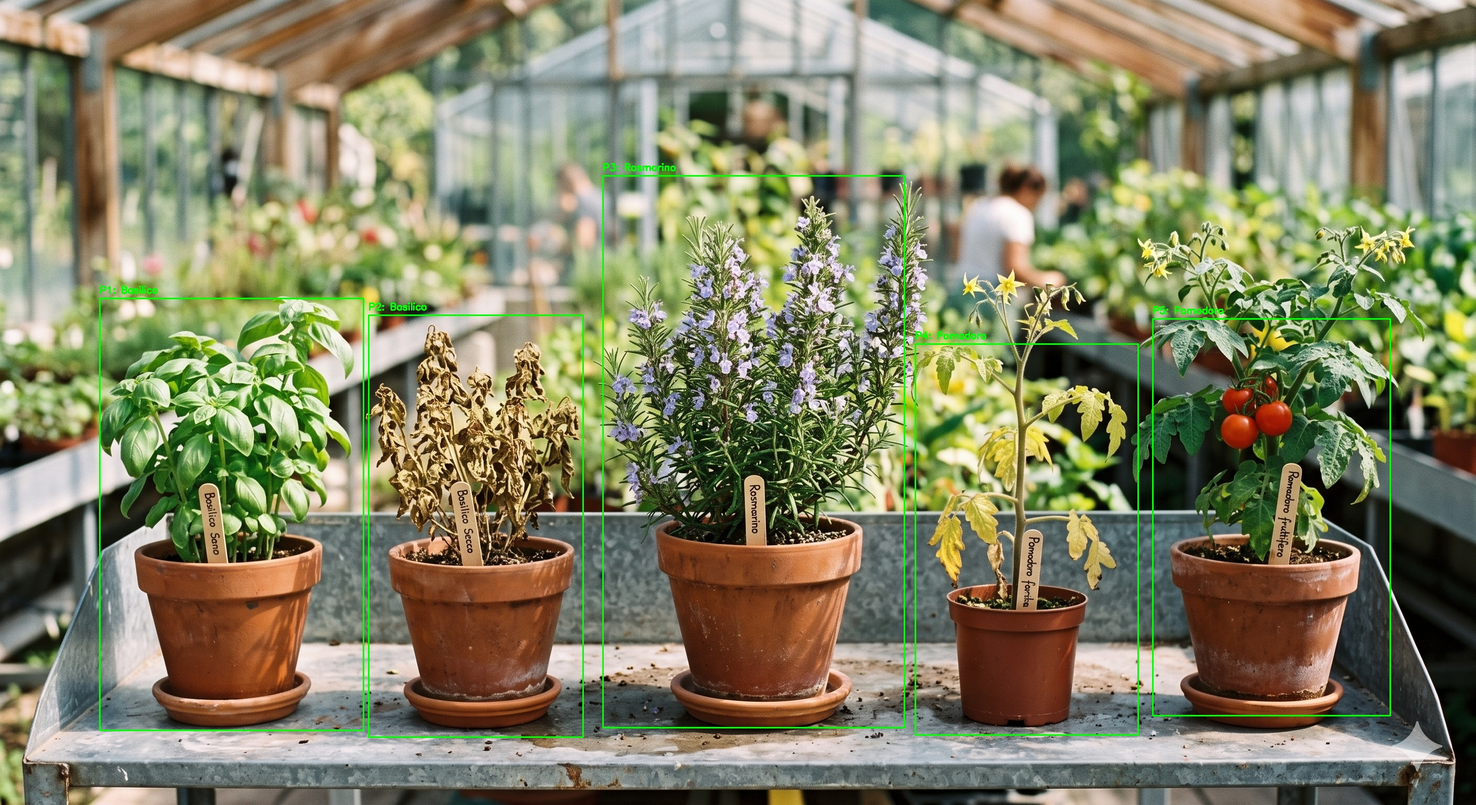
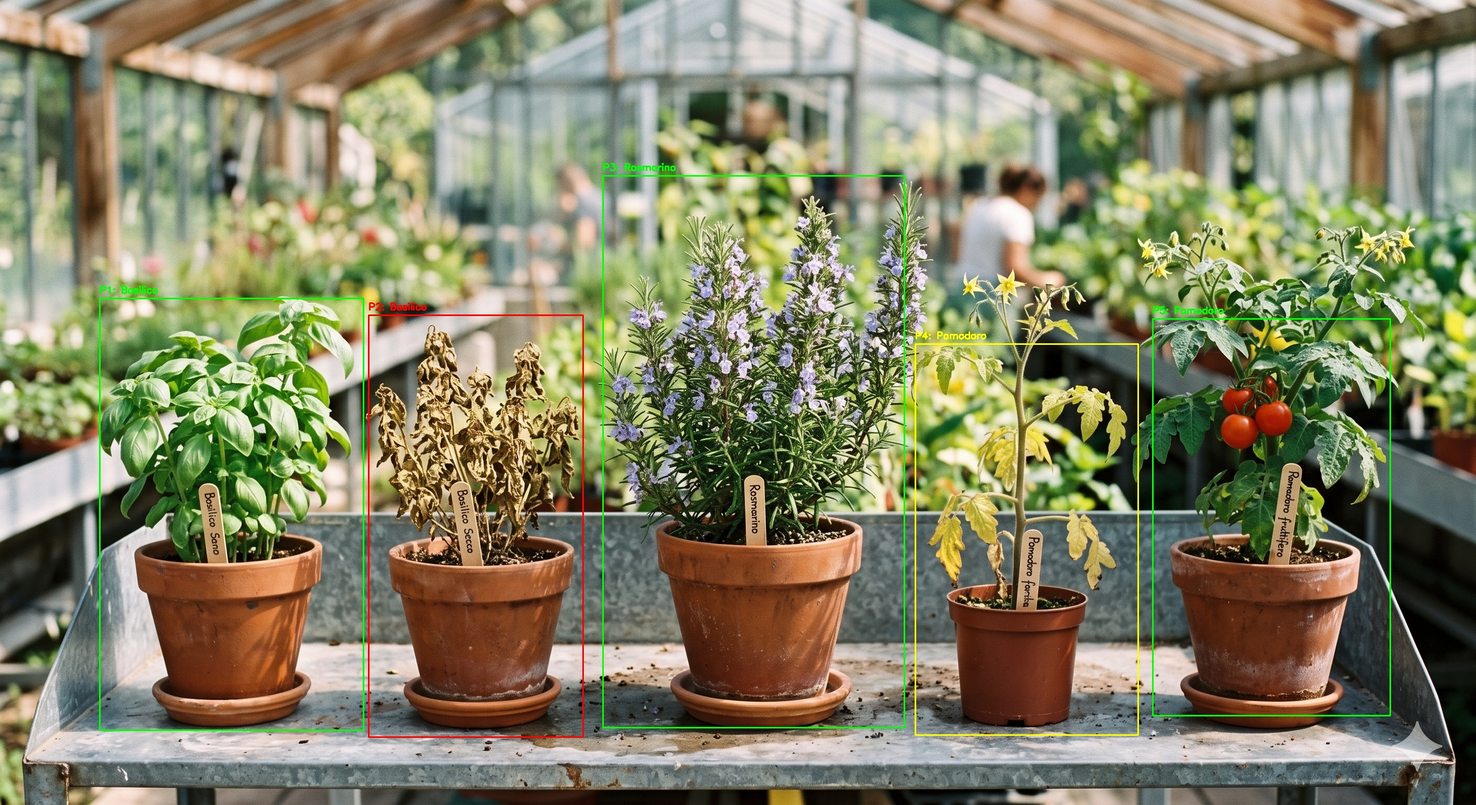
modifiche alle maschere cromatiche

diff --git a/services/vision_service.py b/services/vision_service.py
@@ -168,7 +168,7 @@ class VisionService:
 
         self._check_timeout(pipeline_start, "Object Detection YOLO")
 
-       # ==========================================
+        # ==========================================
         # FASE 2, 3 e 4: Cropping, Keras e OpenCV per singola pianta
         # ==========================================
         
@@ -197,7 +197,7 @@ class VisionService:
             
             plant_data = {
                 "plant_id": idx + 1,
-                "species": "Specie Non Identificata",
+                "species": "Altro",
                 "confidence": 0.0,
                 "anomaly_pct": 0.0,
                 "health_status": "Sano"
@@ -236,7 +236,7 @@ class VisionService:
             # --- Segmentazione Anomalie (OpenCV) sul Crop ---
             try:
                 hsv = cv2.cvtColor(crop, cv2.COLOR_BGR2HSV)
-                lower_yellow = np.array([15, 40, 40], dtype=np.uint8)
+                lower_yellow = np.array([5, 10, 10], dtype=np.uint8)
                 upper_yellow = np.array([30, 255, 255], dtype=np.uint8)
                 mask = cv2.inRange(hsv, lower_yellow, upper_yellow)
                 
